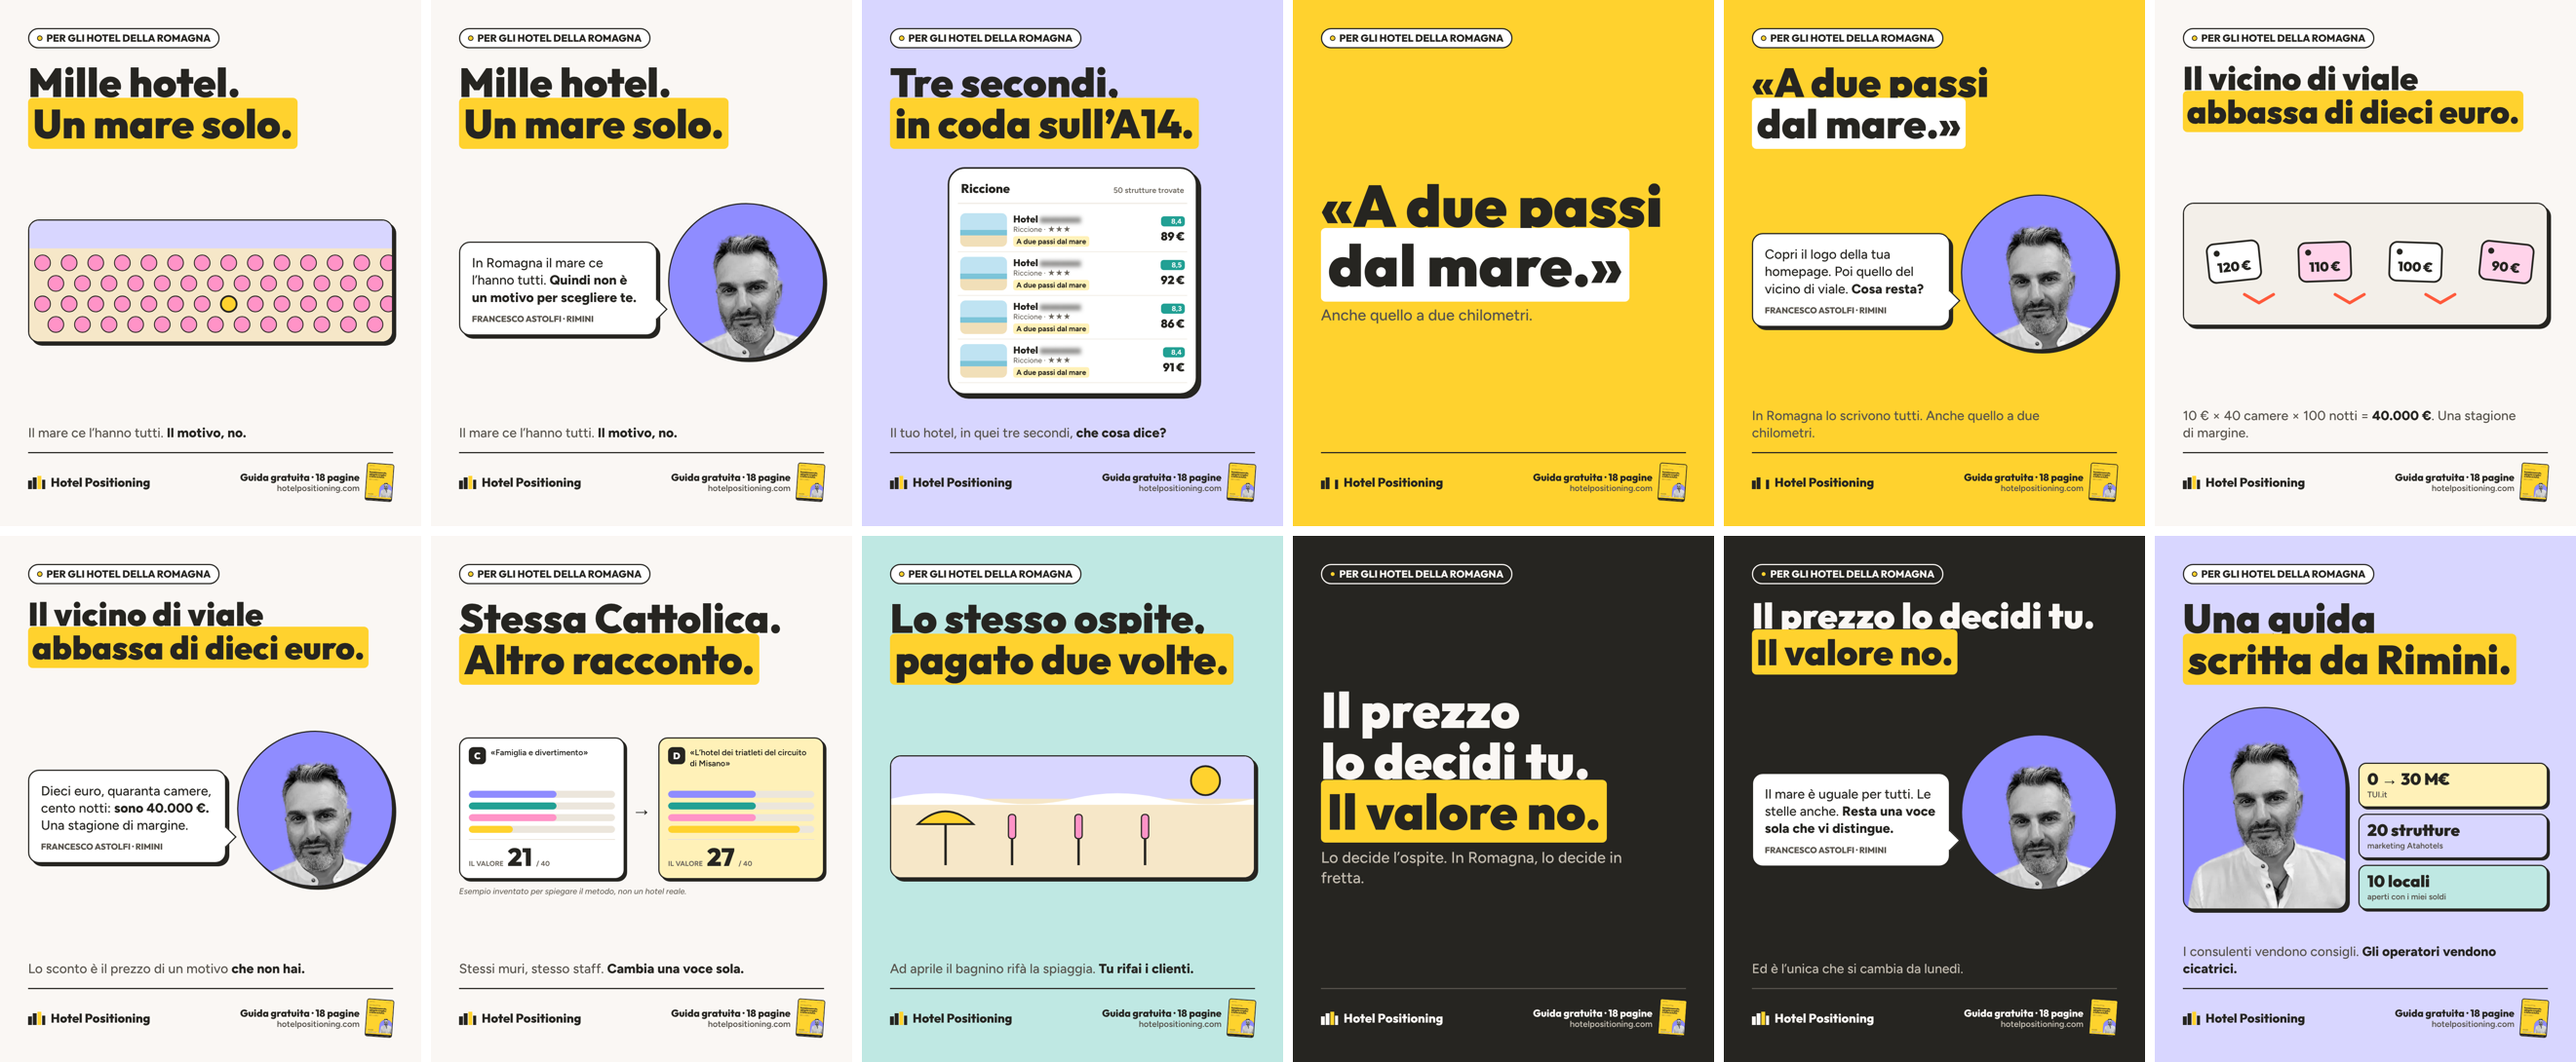
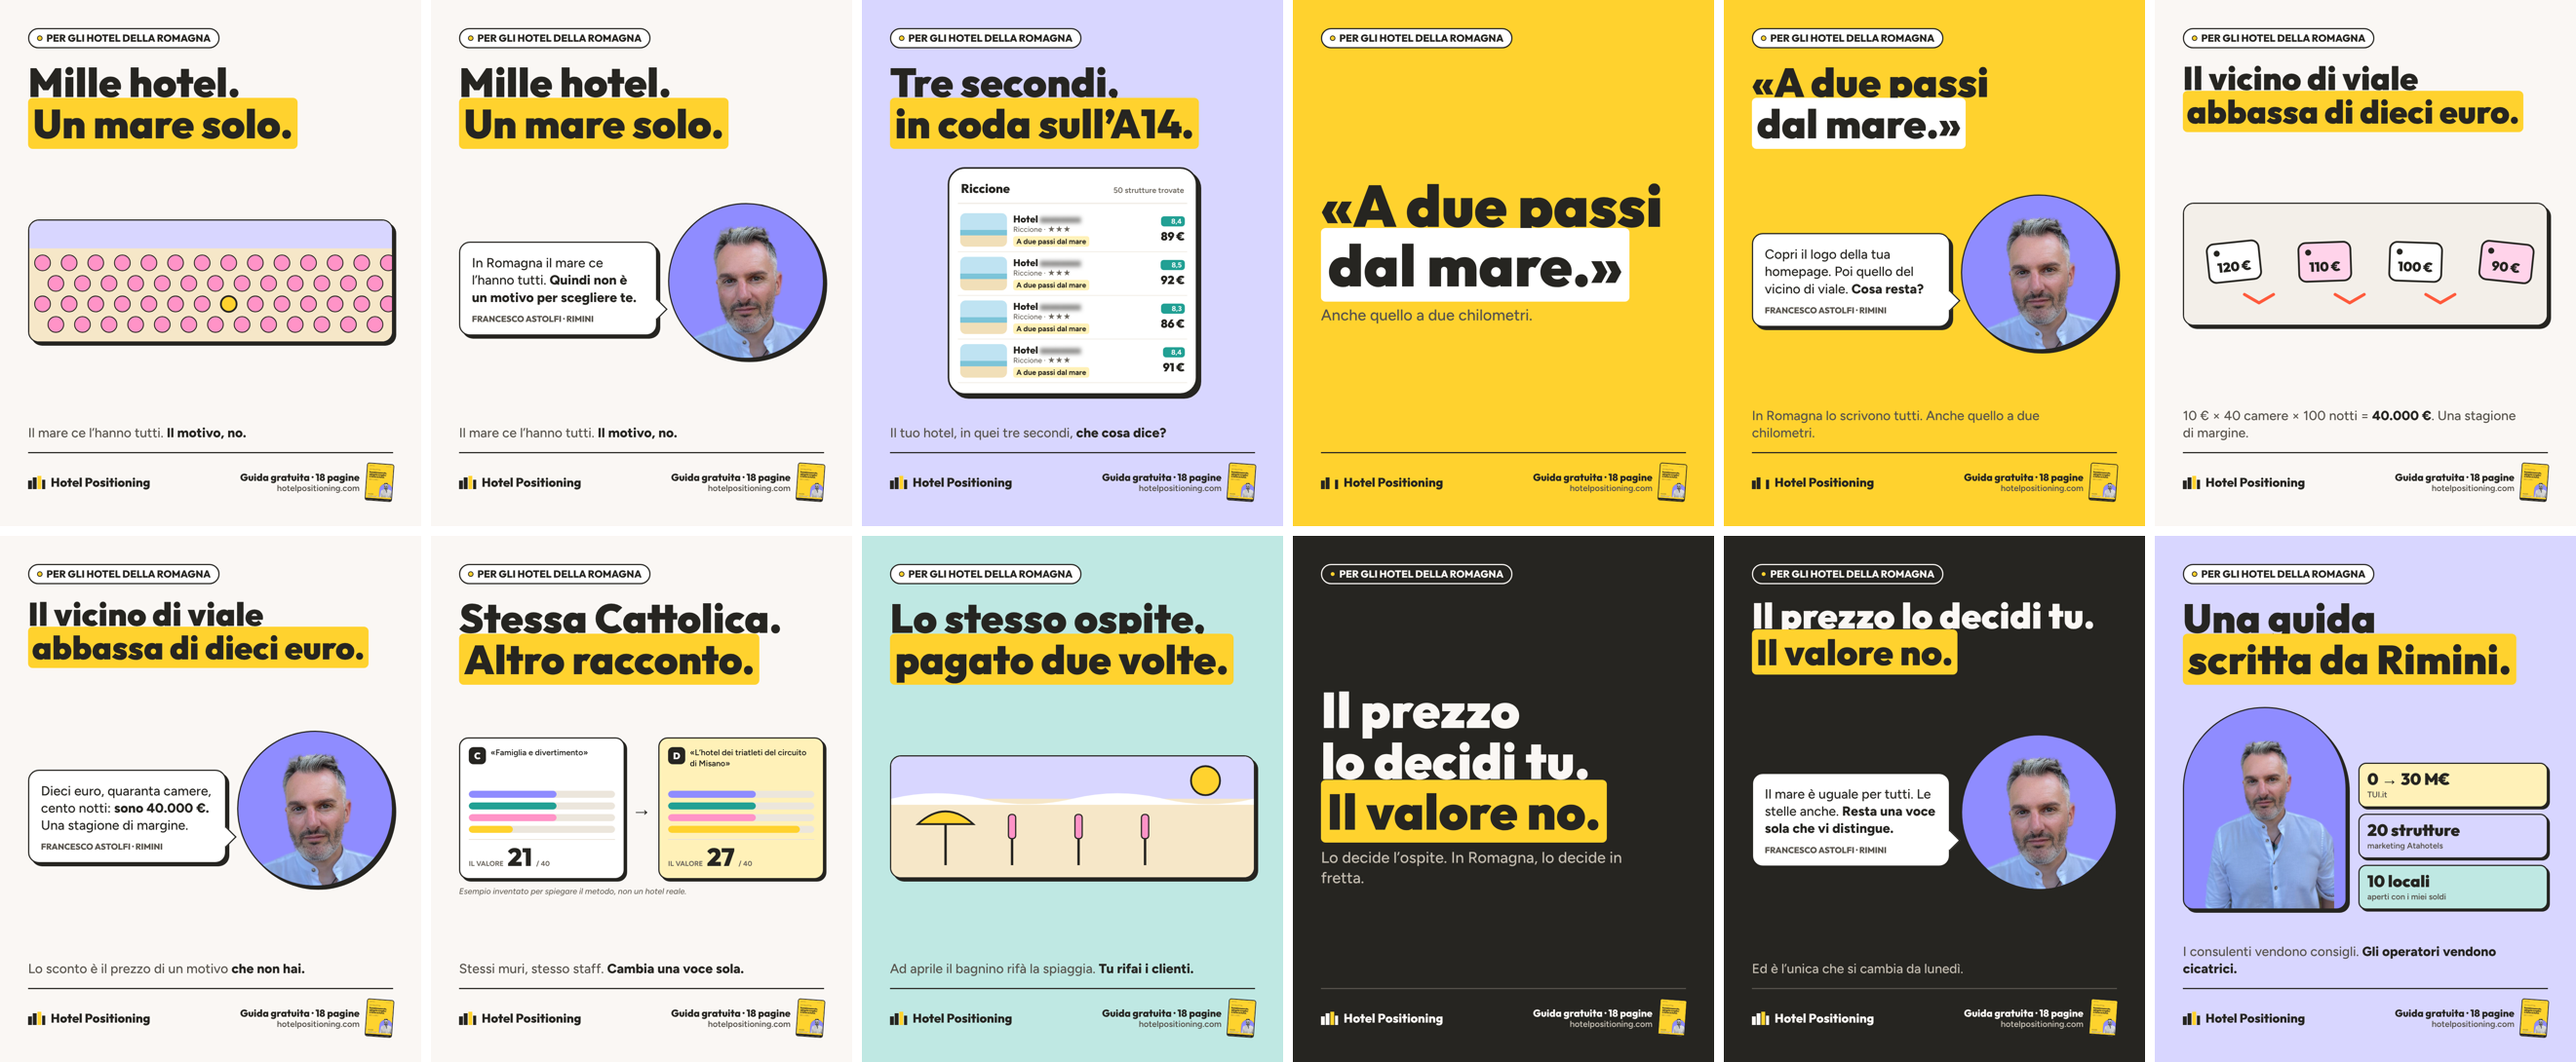
Annunci Romagna: nuova foto di Francesco a colori, scontornata (anche in materiali/guida-positioning)
Claude-Session: https://claude.ai/code/session_0143iuYkSKfNX3NX9JmduveJ

diff --git a/materiali/ads-guida-romagna/genera_ads.py b/materiali/ads-guida-romagna/genera_ads.py
@@ -12,7 +12,7 @@ def ill(name):  # svg interno delle illustrazioni del PDF
     return s[s.index('<svg'):s.rindex('</svg>') + 6]
 def b64(p, mime): return f'data:{mime};base64,' + base64.b64encode(Path(p).read_bytes()).decode()
 OUTFIT = b64(G / 'outfit.woff2', 'font/woff2'); FIG = b64(G / 'figtree.woff2', 'font/woff2'); FIGI = b64(G / 'figtree-italic.woff2', 'font/woff2')
-COVER = b64(SITE / 'guida/copertina@2x.webp', 'image/webp'); CUT = b64(G / 'cutout.png', 'image/png')
+COVER = b64(SITE / 'guida/copertina@2x.webp', 'image/webp'); CUT = b64(G / 'francesco-2026-scontornato.png', 'image/png')
 INK, CR, Y, LI, TE, PK = '#262521', '#faf7f4', '#ffd22e', '#8f8cff', '#22a094', '#ff93c7'
 LS, TS, PS, YS = '#d8d6ff', '#bfe8e3', '#ffd3ea', '#fff1b8'
 
@@ -107,7 +107,8 @@ h1 mark{background:#ffd22e;color:#262521;border-radius:12px;padding:0 .12em;box-
 .note{margin-top:18px;font:italic 500 21px Figtree;color:#6b665d}
 .fr{display:grid;grid-template-columns:420px 1fr;gap:30px;align-items:end}
 .arch{height:520px;border:3px solid INK;border-radius:210px 210px 26px 26px;background:#8f8cff;overflow:hidden;position:relative;box-shadow:8px 8px 0 INK}
-.arch img{position:absolute;top:6%;left:50%;width:118%;transform:translateX(-50%)}
+.arch img{position:absolute;bottom:0;left:50%;width:86%;transform:translateX(-50%)}
+.a2 img{bottom:auto;top:-1%;width:122%}
 .pr2{display:grid;grid-template-columns:1fr 400px;gap:28px;align-items:end}
 .bub{position:relative;background:#fff;border:3px solid INK;border-radius:28px;padding:30px 30px 26px;box-shadow:8px 8px 0 INK;margin-bottom:60px;color:#262521}
 .bub:after{content:"";position:absolute;right:-22px;bottom:46px;width:34px;height:34px;background:#fff;border-right:3px solid INK;border-top:3px solid INK;transform:rotate(45deg)}
